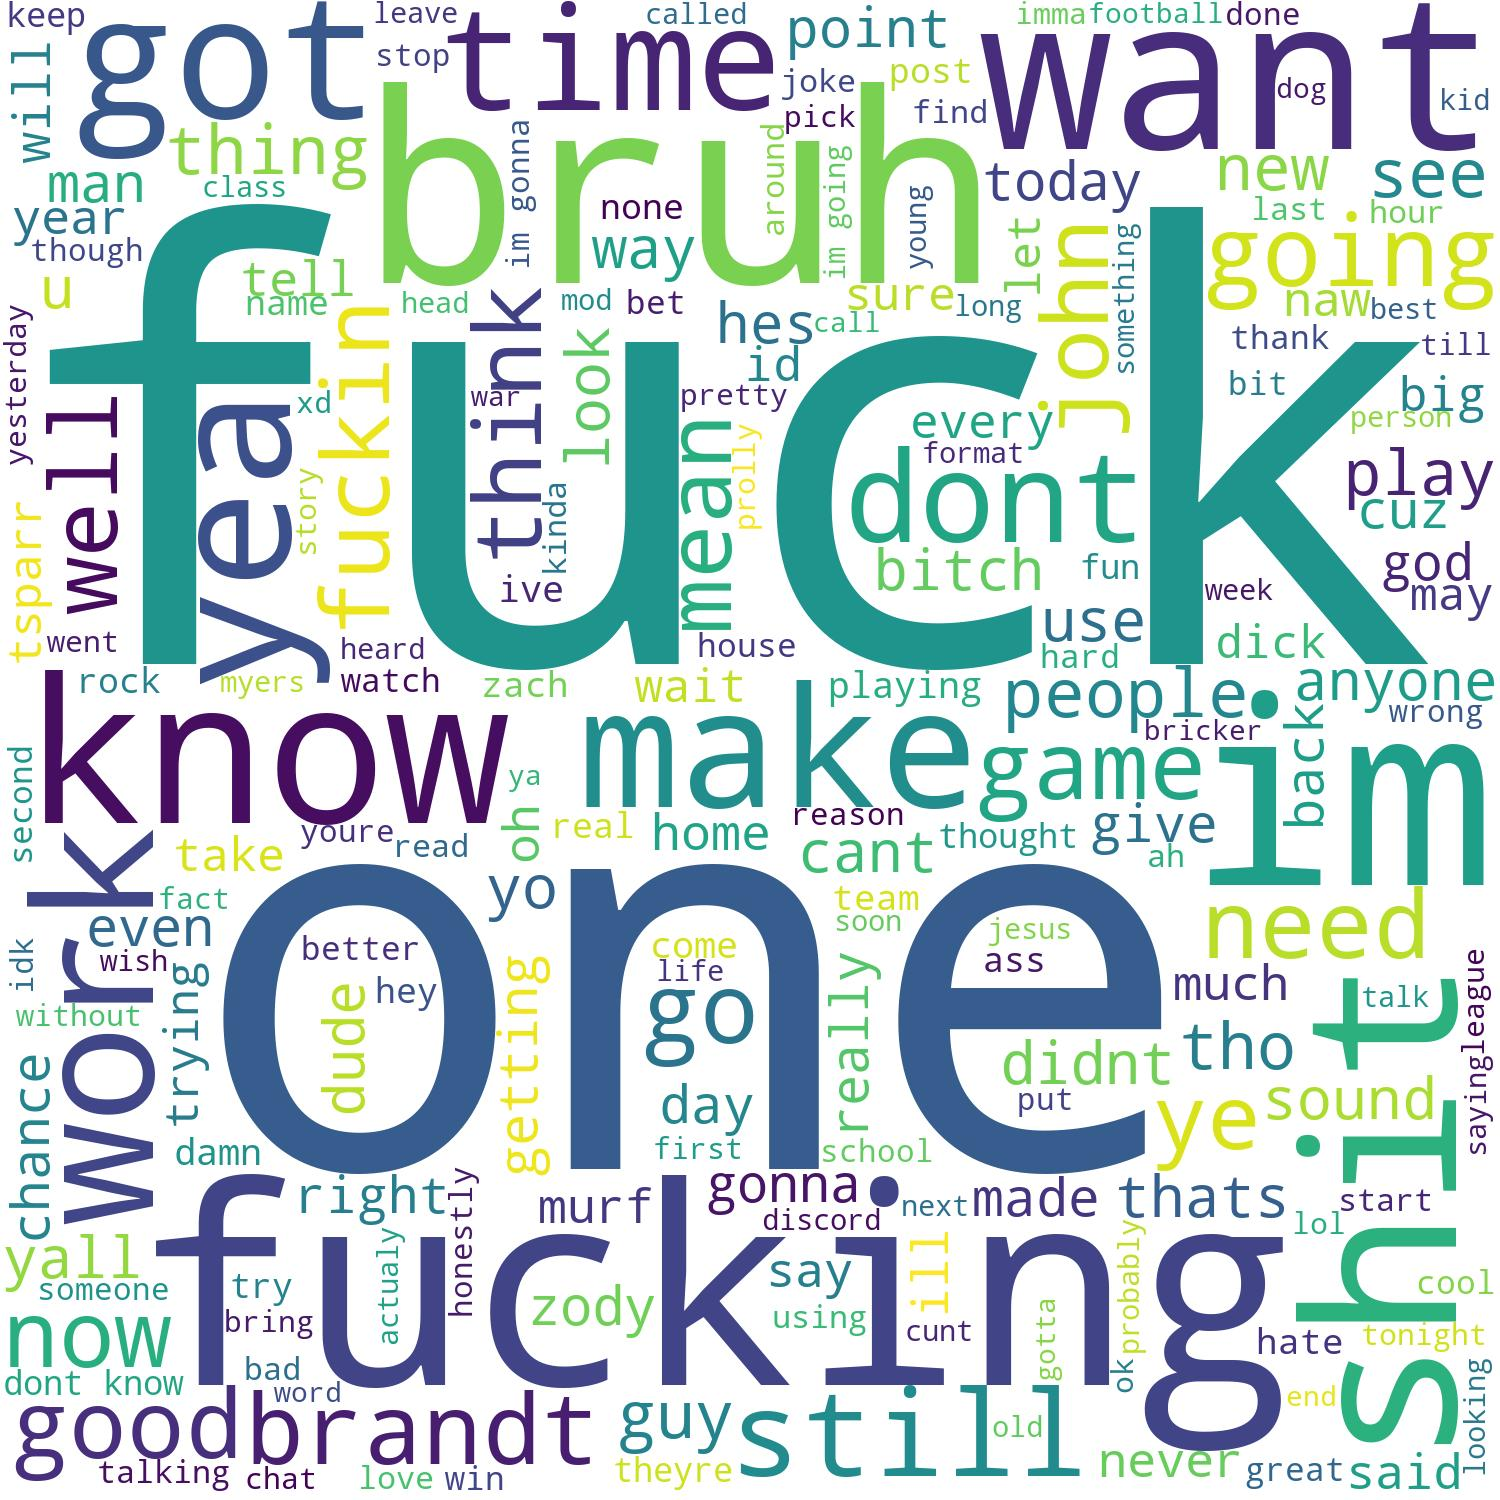
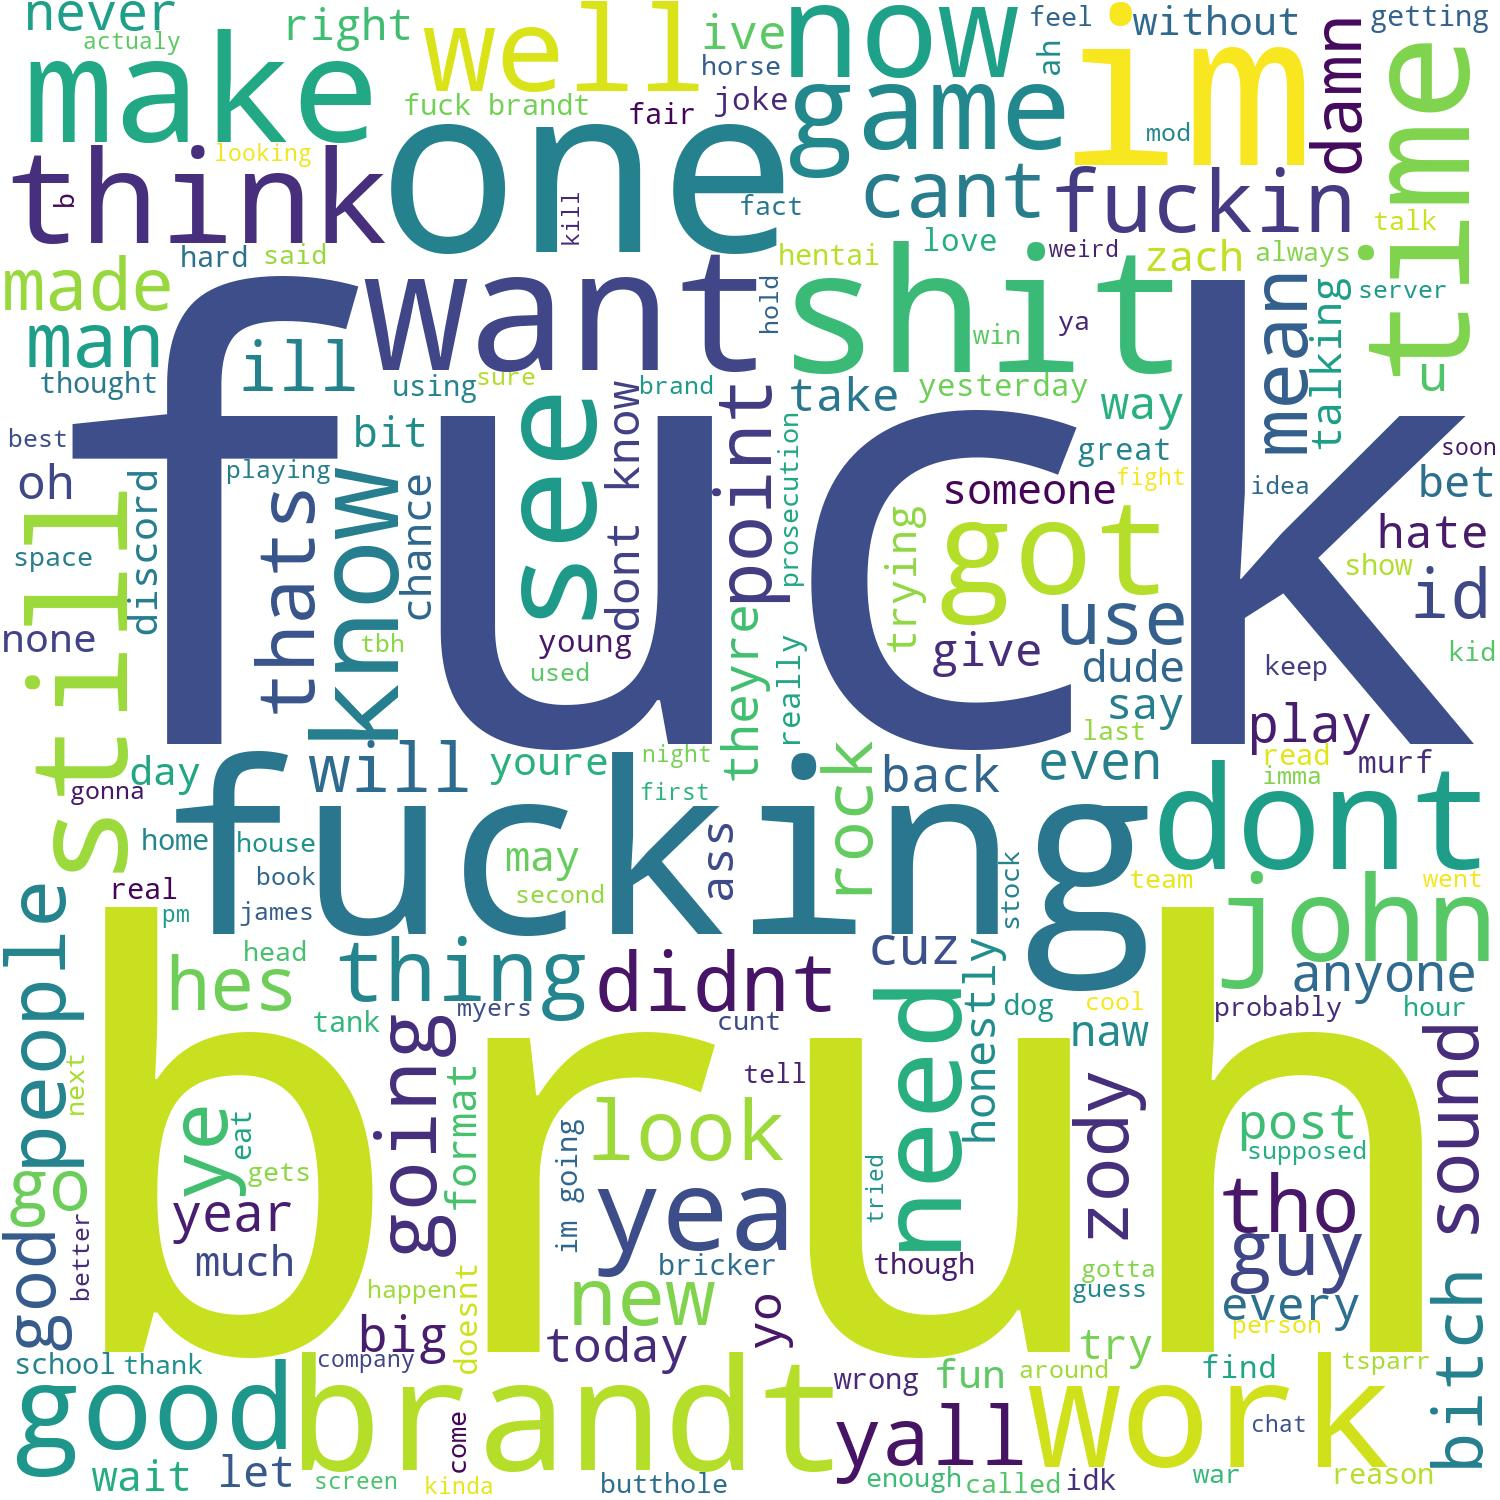
compute all the stats in the object, generate word clouds in the object

diff --git a/src/models/__init__.py b/src/models/__init__.py
@@ -1,6 +1,8 @@
-from sqlite3 import Date
-from tokenize import group
+from os import mkdir
+from pyexpat.errors import messages
 from typing import List
+import pathlib
+from wordcloud import WordCloud, STOPWORDS
 
 import json
 
@@ -19,8 +21,6 @@ NAME_LUT = {
     "17287394": "Bricker",
     "12478609": "Chance",
     "12478582": "Jared",
-    "system": "system",
-    "calendar": "calendar",
 }
 
 
@@ -29,6 +29,7 @@ class GroupmeMessage:
     message_text: str
     favorited_by: List[str]
     created_at: datetime
+    attachments: List[dict]
     raw: dict
 
     def parse_favorites(self, favorite_list) -> List[str]:
@@ -51,6 +52,7 @@ class GroupmeMessage:
         self.favorited_by = self.parse_favorites(
             groupme_message["favorited_by"]
         )
+        self.attachments = groupme_message["attachments"]
         self.created_at = datetime.fromtimestamp(groupme_message["created_at"])
         self.raw = groupme_message
 
@@ -93,6 +95,14 @@ class GroupmeMessages:
                 if user.lower() == message.name.lower():
                     yield message
 
+    def by_year_and_users(self, year: int, users: List[str]):
+        start_date = datetime.fromisoformat(f"{year}-01-01")
+        end_date = datetime.fromisoformat(f"{year}-12-31")
+        for message in self.messages:
+            if start_date <= message.created_at <= end_date:
+                if message.name.lower() in [x.lower() for x in users]:
+                    yield message
+
     def get_most_liked_messages(self, year: int, user: str):
         most_liked = []
         most_liked_int = 0
@@ -111,10 +121,98 @@ class GroupmeMessages:
 
         return most_liked
 
+    def compute_like_statistics(self, year: int):
+        print(f"Generating statistics for year {year}...")
+        self.total_likes_given = {}
+        self.total_likes_recieved = {}
+        self.total_messages = {}
+        self.total_image_posts = {}
+        for user in NAME_LUT.values():
+            user = user.lower()
+            self.total_likes_given[user] = 0
+            self.total_likes_recieved[user] = 0
+            self.total_messages[user] = 0
+            self.total_image_posts[user] = 0
+
+        for message in self.by_year(year=year):
+            if len(message.attachments) > 0:
+                if message.attachments[0]["type"] == "image":
+                    self.total_image_posts[message.name.lower()] += 1
+            self.total_messages[message.name.lower()] += 1
+            self.total_likes_recieved[
+                message.name.lower()
+            ] += message.favorited_count
+            for favoritee in message.favorited_by:
+                self.total_likes_given[favoritee.lower()] += 1
+
+        self.average_likes_recieved_per_message = {}
+        self.average_likes_given_per_message = {}
+        for name, value in self.total_messages.items():
+            self.average_likes_given_per_message[name] = (
+                self.total_likes_given[name.lower()] / value
+            )
+            self.average_likes_recieved_per_message[name] = (
+                self.total_likes_recieved[name.lower()] / value
+            )
+
+        self.total_messages = self.sort_dict(self.total_messages)
+        self.total_likes_given = self.sort_dict(self.total_likes_given)
+        self.total_likes_recieved = self.sort_dict(self.total_likes_recieved)
+        self.total_image_posts = self.sort_dict(self.total_image_posts)
+        self.average_likes_recieved_per_message = self.sort_dict(
+            self.average_likes_recieved_per_message
+        )
+        self.average_likes_given_per_message = self.sort_dict(
+            self.average_likes_given_per_message
+        )
+
+    def generate_word_clouds(
+        self, year: int, users: List[str], save_location=pathlib.Path
+    ):
+        words_dictionary = {}
+        for user in users:
+            words_dictionary[user.lower()] = ""
+
+        for message in self.by_year_and_users(year=year, users=users):
+            scrubbed_message = (
+                str(message.message_text)
+                .lower()
+                .strip()
+                .replace("\n", " ")
+                .replace("\\'", "'")
+                .replace(".", "")
+                .replace("?", "")
+                .replace("!", "")
+                + " "
+            )
+            words_dictionary[message.name.lower()] += scrubbed_message
+
+        stopwords = set(STOPWORDS)
+        stopwords.update(["s", "m", "t", "don", "re"])
+        for name, words in words_dictionary.items():
+            print(f"Generating word cloud {name}/{year}")
+            wc = WordCloud(
+                width=1500,
+                height=1500,
+                background_color="white",
+                stopwords=stopwords,
+                min_font_size=10,
+            ).generate(words)
+
+            save_location.mkdir(exist_ok=True)
+            wc.to_file(str(save_location / f"{name}.jpg"))
+
+    @staticmethod
+    def sort_dict(dictionary) -> dict:
+        return dict(
+            sorted(dictionary.items(), key=lambda item: item[1], reverse=True)
+        )
+
     def __init__(self, json_file):
         with open(json_file, "r", encoding="utf-8") as _f:
             message_json = json.load(_f)
 
+        print("Loading messages from JSON...")
         self.messages = []
         for message in message_json:
             if self.filter_message(message):

diff --git a/src/wc_gen.py b/src/wc_gen.py
@@ -1,102 +1,17 @@
-from email import message
-from email.headerregistry import Group
 import pathlib
-import json
-import datetime
-import operator
-from typing import List
-
-from models import GroupmeMessage, GroupmeMessages
+from models import GroupmeMessages, NAME_LUT
 
 MESSAGE_JSON_LOCATION = pathlib.Path("./src/static/message.json")
-
-NAME_LUT = {
-    "27952020": "Paul",
-    "10947804": "T Sparr",
-    "12478441": "Zach",
-    "12478651": "Murph",
-    "12478465": "Zody",
-    "12481995": "Nardy",
-    "6789777": "John",
-    "12478598": "James",
-    "17287394": "Bricker",
-    "12478609": "Chance",
-    "12478582": "Jared",
-}
-
-
-class HistoryGroupmeStats:
-    message_count: dict
-    likes_total: dict
-    liked_messages: dict
-    total_lpp: dict
-    total_lpm: dict
-
-    def __init__(
-        self,
-        in_message_count,
-        in_likes_total,
-        in_liked_messages,
-        in_total_lpp,
-        in_total_lpm,
-    ):
-        self.message_count = in_message_count
-        self.likes_total = in_likes_total
-        self.liked_messages = in_liked_messages
-        self.total_lpp = in_total_lpp
-        self.total_lpm = in_total_lpm
-
-    def __repr__(self):
-        return_str = ""
-        self.message_count = sort_dict(self.message_count)
-        print("==== MESSAGES SENT ====")
-        print_dict(self.message_count)
-
-        self.likes_total = sort_dict(self.likes_total)
-        print("==== LIKES  TOTAL ====")
-        print_dict(self.likes_total)
-
-        self.total_lpp = sort_dict(self.total_lpp)
-        print("==== TOTAL   LPP ====")
-        print_dict(self.total_lpp)
-
-        self.liked_messages = sort_dict(self.liked_messages)
-        print("==== TOTAL MESSAGES LIKED ====")
-        print_dict(self.liked_messages)
-
-        self.total_lpm = sort_dict(self.total_lpm)
-        print("==== TOTAL LIKES PER MESSAGE ====")
-        print_dict(self.total_lpm)
-
-        return ""
-
-
-def get_lpp(message) -> int:
-    return int(len(message["favorited_by"]))
-
-
-def get_likers(message):
-    return message["favorited_by"]
-
-
-def sort_dict(dictionary) -> dict:
-    return dict(
-        sorted(dictionary.items(), key=lambda item: item[1], reverse=True)
-    )
-
-
-def print_dict(dictionary) -> None:
-    for key, total in dictionary.items():
-        try:
-            print(f"{NAME_LUT[key]}\t\t{total:.2f}")
-        except KeyError:
-            continue
 
 
 def main():
     messages = GroupmeMessages(MESSAGE_JSON_LOCATION)
-    for message in messages.by_year_and_user(year=2021, user="Zach"):
-        print(message)
+
+    messages.generate_word_clouds(
+        users=NAME_LUT.values(),
+        year=2021,
+        save_location=pathlib.Path("images/2021"),
+    )
 
 
 if __name__ == "__main__":

diff --git a/src/main.py b/src/main.py
@@ -1,5 +1,4 @@
 import pathlib
-from typing import List
 
 from models import GroupmeMessages
 
@@ -9,9 +8,11 @@ MESSAGE_JSON_LOCATION = pathlib.Path("./src/static/message.json")
 def main():
     messages = GroupmeMessages(MESSAGE_JSON_LOCATION)
 
-    most_liked = messages.get_most_liked_messages(year=2021, user="james")
-    for message in most_liked:
-        print(message.raw)
+    messages.compute_like_statistics(year=2021)
+
+    # most_liked = messages.get_most_liked_messages(year=2021, user="james")
+    # for message in most_liked:
+    #     print(message.raw)
 
 
 if __name__ == "__main__":
